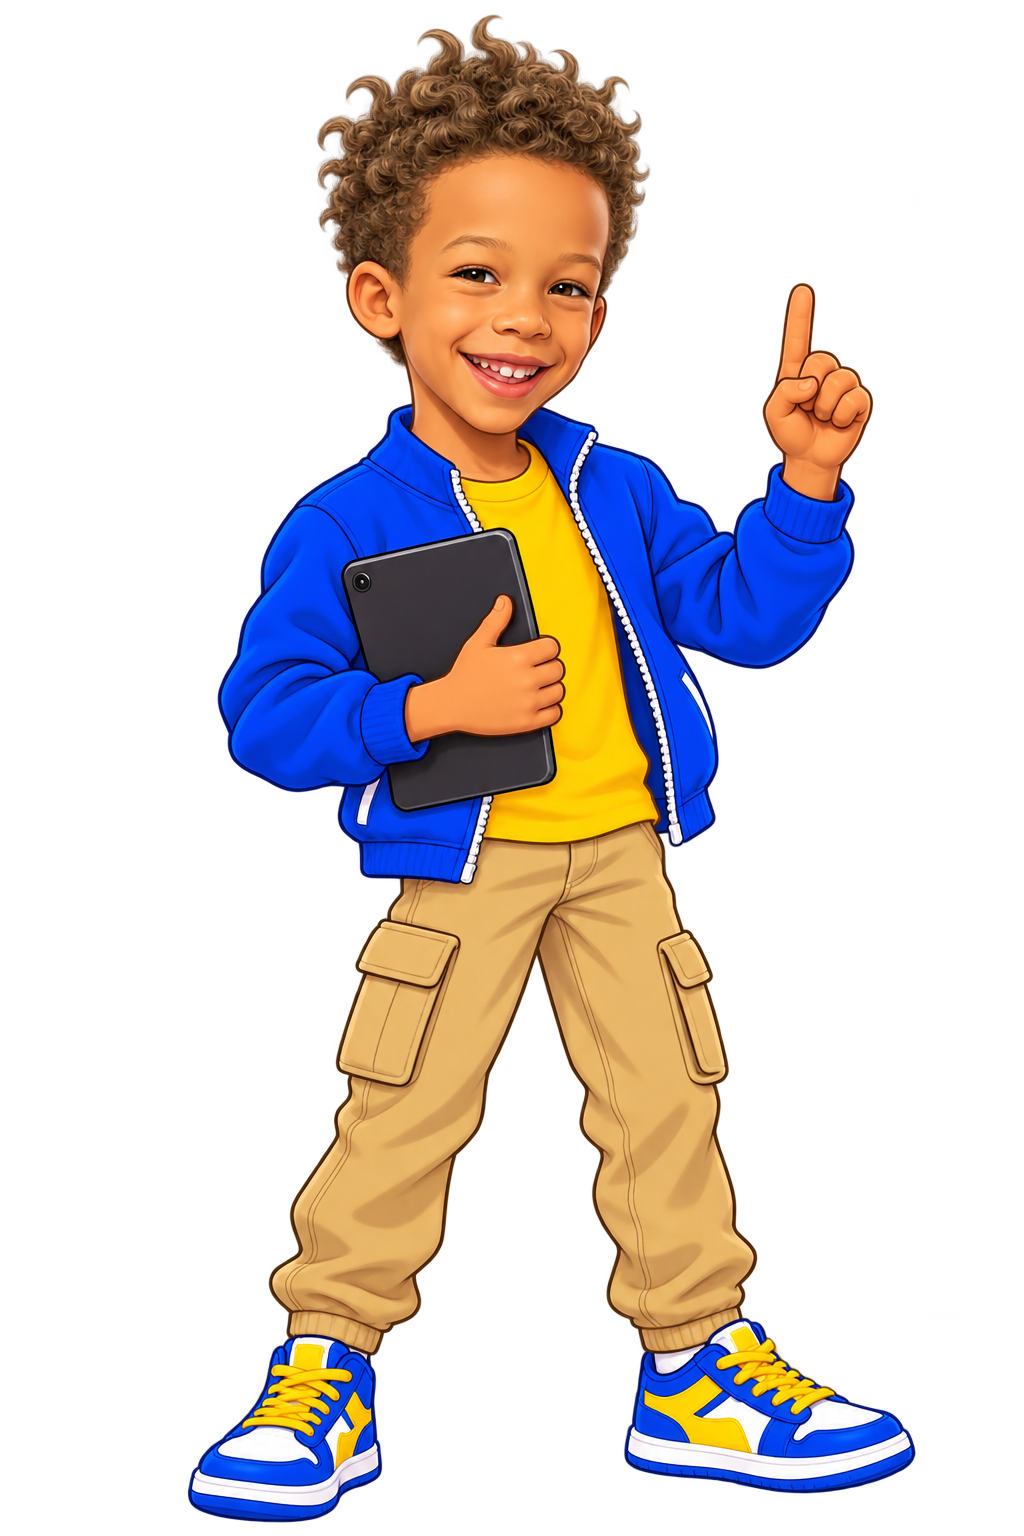
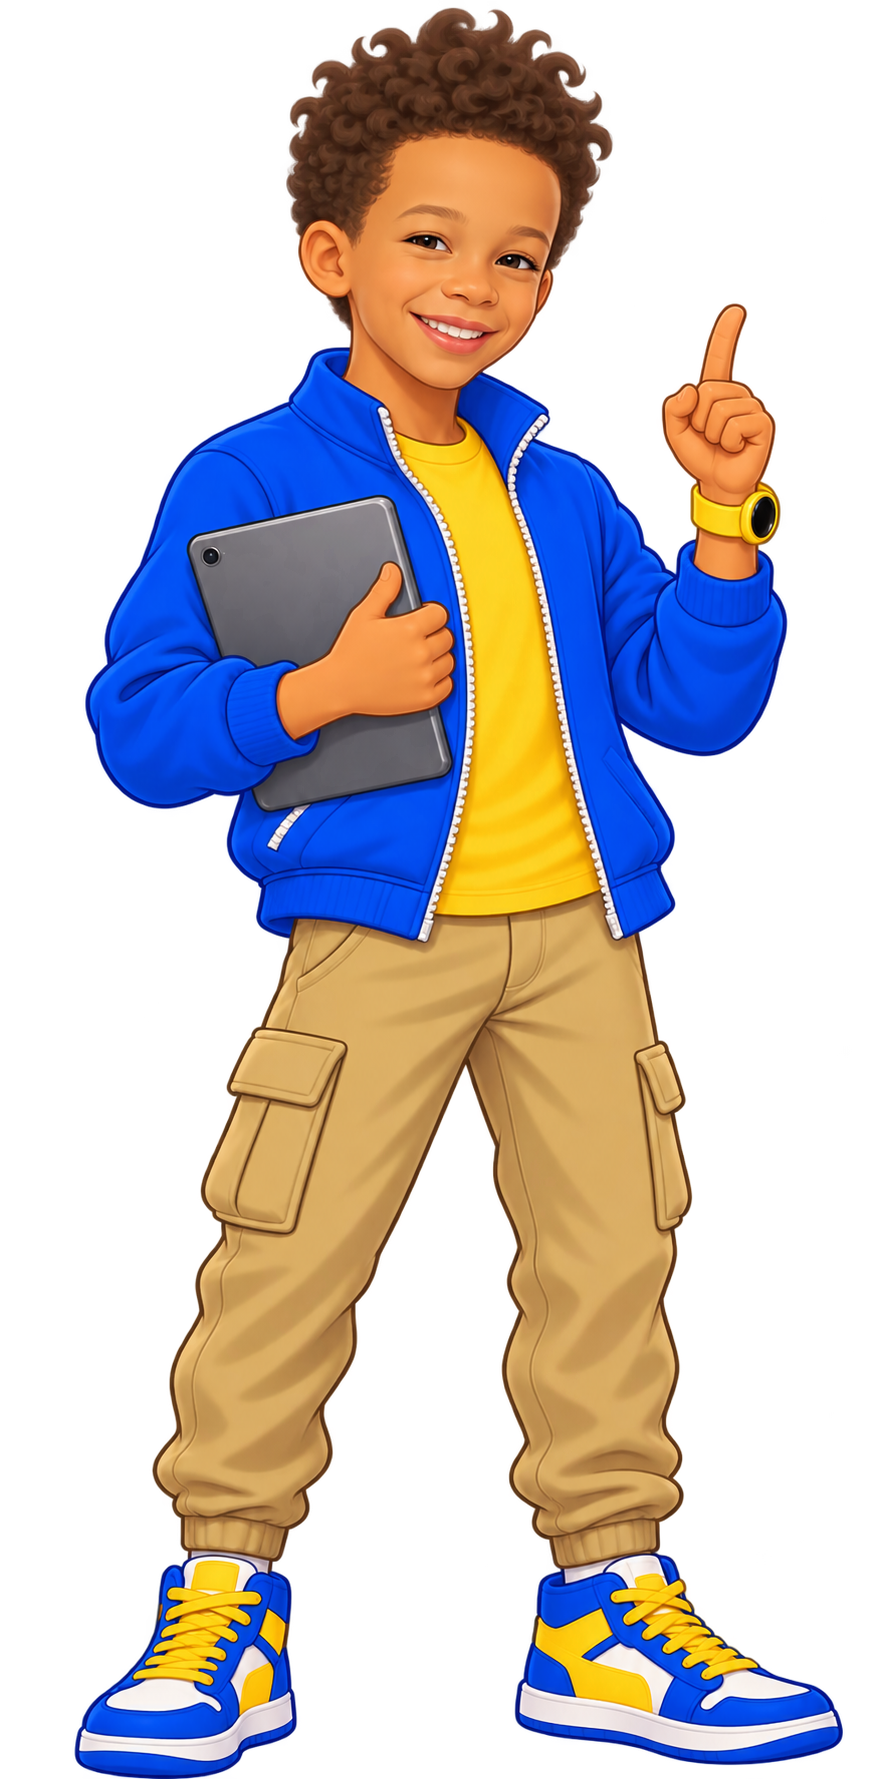
Soften Everest character artwork

diff --git a/money-ops/src/runner.js b/money-ops/src/runner.js
@@ -5,7 +5,7 @@ export class FinancialRunner{
  constructor(canvas,config,{characterId='maya',ownedItems=[],onUpdate=()=>{},onComplete=()=>{}}={}){
   this.canvas=canvas;this.ctx=canvas.getContext('2d');this.config=config;this.characterId=characterId;this.ownedItems=new Set(ownedItems);this.onUpdate=onUpdate;this.onComplete=onComplete;this.reduced=matchMedia('(prefers-reduced-motion: reduce)').matches;
   this.width=960;this.height=360;this.ground=292;this.entities=[];this.particles=[];this.popups=[];this.keys=new Set();this.running=false;this.paused=false;this.completed=false;this.last=0;this.spawnIn=1.55;this.rewardIn=.45;this.powerIn=11;this.boxIn=5;this.speed=155*config.difficulty;this.distance=0;this.lives=config.maxLives;this.coins=0;this.collected=0;this.bonusMoney=0;this.xp=0;this.score=0;this.avoided=0;this.combo=0;this.powerUpsUsed=0;this.invulnerable=0;this.companionShield=this.ownedItems.has('companion');this.activePower=null;this.state='idle';this.stateTime=0;this.vocabularyIndex=0;this.vocabularySeen=[];this.vocabEvent=null;this.vocabSerial=0;this.player={x:112,y:this.ground-124,w:82,h:124,vy:0,grounded:true,duck:false};
-  this.startedAt=0;this.endAt=0;this.lastHud=0;this.pendingStart=null;this.imageReady=false;this.imageFailed=false;this.image=new Image();this.image.onload=()=>{this.imageReady=true;if(this.pendingStart!==null){const pending=this.pendingStart;this.pendingStart=null;this.start(pending);}};this.image.onerror=()=>{this.imageFailed=true;if(this.pendingStart!==null){const pending=this.pendingStart;this.pendingStart=null;this.start(pending);}};this.image.src=new URL(`../assets/runner/${characterId}-right.png?v=43.2`,import.meta.url).href;this.imageReady=Boolean(this.image.complete&&this.image.naturalWidth);this.boundFrame=time=>this.frame(time);this.boundKeyDown=event=>this.keyDown(event);this.boundKeyUp=event=>this.keyUp(event);this.boundBlur=()=>this.setPaused(true);this.pointerStart=null;
+  this.startedAt=0;this.endAt=0;this.lastHud=0;this.pendingStart=null;this.imageReady=false;this.imageFailed=false;this.image=new Image();this.image.onload=()=>{this.imageReady=true;if(this.pendingStart!==null){const pending=this.pendingStart;this.pendingStart=null;this.start(pending);}};this.image.onerror=()=>{this.imageFailed=true;if(this.pendingStart!==null){const pending=this.pendingStart;this.pendingStart=null;this.start(pending);}};this.image.src=new URL(`../assets/runner/${characterId}-right.png?v=43.3`,import.meta.url).href;this.imageReady=Boolean(this.image.complete&&this.image.naturalWidth);this.boundFrame=time=>this.frame(time);this.boundKeyDown=event=>this.keyDown(event);this.boundKeyUp=event=>this.keyUp(event);this.boundBlur=()=>this.setPaused(true);this.pointerStart=null;
   const ratio=Math.min(2,window.devicePixelRatio||1);canvas.width=this.width*ratio;canvas.height=this.height*ratio;this.ctx.setTransform(ratio,0,0,ratio,0,0);canvas.style.aspectRatio=`${this.width}/${this.height}`;
   canvas.addEventListener('pointerdown',event=>{this.pointerStart={x:event.clientX,y:event.clientY,time:Date.now()};});
   canvas.addEventListener('pointerup',event=>{const start=this.pointerStart;if(!start)return;const dy=event.clientY-start.y;if(dy>38)this.duck(.65);else this.jump();this.pointerStart=null;});

diff --git a/src/runner.js b/src/runner.js
@@ -5,7 +5,7 @@ export class FinancialRunner{
  constructor(canvas,config,{characterId='maya',ownedItems=[],onUpdate=()=>{},onComplete=()=>{}}={}){
   this.canvas=canvas;this.ctx=canvas.getContext('2d');this.config=config;this.characterId=characterId;this.ownedItems=new Set(ownedItems);this.onUpdate=onUpdate;this.onComplete=onComplete;this.reduced=matchMedia('(prefers-reduced-motion: reduce)').matches;
   this.width=960;this.height=360;this.ground=292;this.entities=[];this.particles=[];this.popups=[];this.keys=new Set();this.running=false;this.paused=false;this.completed=false;this.last=0;this.spawnIn=1.55;this.rewardIn=.45;this.powerIn=11;this.boxIn=5;this.speed=155*config.difficulty;this.distance=0;this.lives=config.maxLives;this.coins=0;this.collected=0;this.bonusMoney=0;this.xp=0;this.score=0;this.avoided=0;this.combo=0;this.powerUpsUsed=0;this.invulnerable=0;this.companionShield=this.ownedItems.has('companion');this.activePower=null;this.state='idle';this.stateTime=0;this.vocabularyIndex=0;this.vocabularySeen=[];this.vocabEvent=null;this.vocabSerial=0;this.player={x:112,y:this.ground-124,w:82,h:124,vy:0,grounded:true,duck:false};
-  this.startedAt=0;this.endAt=0;this.lastHud=0;this.pendingStart=null;this.imageReady=false;this.imageFailed=false;this.image=new Image();this.image.onload=()=>{this.imageReady=true;if(this.pendingStart!==null){const pending=this.pendingStart;this.pendingStart=null;this.start(pending);}};this.image.onerror=()=>{this.imageFailed=true;if(this.pendingStart!==null){const pending=this.pendingStart;this.pendingStart=null;this.start(pending);}};this.image.src=new URL(`../assets/runner/${characterId}-right.png?v=43.2`,import.meta.url).href;this.imageReady=Boolean(this.image.complete&&this.image.naturalWidth);this.boundFrame=time=>this.frame(time);this.boundKeyDown=event=>this.keyDown(event);this.boundKeyUp=event=>this.keyUp(event);this.boundBlur=()=>this.setPaused(true);this.pointerStart=null;
+  this.startedAt=0;this.endAt=0;this.lastHud=0;this.pendingStart=null;this.imageReady=false;this.imageFailed=false;this.image=new Image();this.image.onload=()=>{this.imageReady=true;if(this.pendingStart!==null){const pending=this.pendingStart;this.pendingStart=null;this.start(pending);}};this.image.onerror=()=>{this.imageFailed=true;if(this.pendingStart!==null){const pending=this.pendingStart;this.pendingStart=null;this.start(pending);}};this.image.src=new URL(`../assets/runner/${characterId}-right.png?v=43.3`,import.meta.url).href;this.imageReady=Boolean(this.image.complete&&this.image.naturalWidth);this.boundFrame=time=>this.frame(time);this.boundKeyDown=event=>this.keyDown(event);this.boundKeyUp=event=>this.keyUp(event);this.boundBlur=()=>this.setPaused(true);this.pointerStart=null;
   const ratio=Math.min(2,window.devicePixelRatio||1);canvas.width=this.width*ratio;canvas.height=this.height*ratio;this.ctx.setTransform(ratio,0,0,ratio,0,0);canvas.style.aspectRatio=`${this.width}/${this.height}`;
   canvas.addEventListener('pointerdown',event=>{this.pointerStart={x:event.clientX,y:event.clientY,time:Date.now()};});
   canvas.addEventListener('pointerup',event=>{const start=this.pointerStart;if(!start)return;const dy=event.clientY-start.y;if(dy>38)this.duck(.65);else this.jump();this.pointerStart=null;});

diff --git a/money-ops/src/app.js b/money-ops/src/app.js
@@ -15,7 +15,7 @@ const money=n=>new Intl.NumberFormat('en-US',{style:'currency',currency:'USD',ma
 const escape=s=>String(s).replace(/[&<>"']/g,c=>({'&':'&amp;','<':'&lt;','>':'&gt;','"':'&quot;',"'":'&#39;'}[c]));
 const button=(text,action,cls='',extra='')=>`<button class="${cls}" data-action="${action}" ${extra}>${text}</button>`;
 function progress(){const next=nextRank(p.xp);const current=ranks.filter(r=>p.xp>=r[1]).at(-1);const pct=next?Math.min(100,(p.xp-current[1])/(next[1]-current[1])*100):100;return `<div class="xp-row"><span>${p.xp} XP</span><span>${next?`${next[1]-p.xp} TO ${next[0].toUpperCase()}`:'TOP RANK'}</span></div><div class="bar" role="progressbar" aria-label="Rank progress" aria-valuenow="${Math.round(pct)}" aria-valuemin="0" aria-valuemax="100"><i style="width:${pct}%"></i></div>`;}
-function header(){const arcade=p.mode==='arcade';return `<header><a class="brand" href="./" aria-label="Money Ops home"><span class="brand-mark">M<span>↗</span></span><span><small>FINANCIAL FREEDOM</small><b>MONEY OPS<span class="version"> / 43.2</span></b></span></a><div class="header-right"><span class="system ${arcade?'arcade-unsaved':''}"><i></i> ${arcade?'ARCADE MODE · NOT SAVED':'CAREER SAVED'}</span>${button(p.muted?'SOUND OFF':'SOUND ON','mute','utility',`aria-pressed="${!p.muted}" aria-label="${p.muted?'Enable':'Mute'} sound"`)}</div></header>`;}
+function header(){const arcade=p.mode==='arcade';return `<header><a class="brand" href="./" aria-label="Money Ops home"><span class="brand-mark">M<span>↗</span></span><span><small>FINANCIAL FREEDOM</small><b>MONEY OPS<span class="version"> / 43.3</span></b></span></a><div class="header-right"><span class="system ${arcade?'arcade-unsaved':''}"><i></i> ${arcade?'ARCADE MODE · NOT SAVED':'CAREER SAVED'}</span>${button(p.muted?'SOUND OFF':'SOUND ON','mute','utility',`aria-pressed="${!p.muted}" aria-label="${p.muted?'Enable':'Mute'} sound"`)}</div></header>`;}
 function playerPortrait(className='',id=p.avatar){return characters[id]?portrait(id,className):`<span class="avatar">${escape(id)}</span>`;}
 function runnerCharacterId(session=p?.runnerSession){if(p?.mode==='arcade')return p.avatar;const lesson=Math.max(1,Number(session?.lessonId)||1),offset=session?.phase==='post'?1:0;return castIds[(lesson-1+offset)%castIds.length];}
 const bonusItems=[{id:'boots',name:'BOOST BOOTS',price:5,icon:'⇧',detail:'Jump higher.'},{id:'magnet',name:'COIN MAGNET',price:10,icon:'◎',detail:'Pull coins closer.'},{id:'companion',name:'PENNY THE MONEY DRAGON',price:15,icon:'🐲',detail:'Your original Money Ops sidekick blocks one hit.'}];

diff --git a/src/app.js b/src/app.js
@@ -15,7 +15,7 @@ const money=n=>new Intl.NumberFormat('en-US',{style:'currency',currency:'USD',ma
 const escape=s=>String(s).replace(/[&<>"']/g,c=>({'&':'&amp;','<':'&lt;','>':'&gt;','"':'&quot;',"'":'&#39;'}[c]));
 const button=(text,action,cls='',extra='')=>`<button class="${cls}" data-action="${action}" ${extra}>${text}</button>`;
 function progress(){const next=nextRank(p.xp);const current=ranks.filter(r=>p.xp>=r[1]).at(-1);const pct=next?Math.min(100,(p.xp-current[1])/(next[1]-current[1])*100):100;return `<div class="xp-row"><span>${p.xp} XP</span><span>${next?`${next[1]-p.xp} TO ${next[0].toUpperCase()}`:'TOP RANK'}</span></div><div class="bar" role="progressbar" aria-label="Rank progress" aria-valuenow="${Math.round(pct)}" aria-valuemin="0" aria-valuemax="100"><i style="width:${pct}%"></i></div>`;}
-function header(){const arcade=p.mode==='arcade';return `<header><a class="brand" href="./" aria-label="Money Ops home"><span class="brand-mark">M<span>↗</span></span><span><small>FINANCIAL FREEDOM</small><b>MONEY OPS<span class="version"> / 43.2</span></b></span></a><div class="header-right"><span class="system ${arcade?'arcade-unsaved':''}"><i></i> ${arcade?'ARCADE MODE · NOT SAVED':'CAREER SAVED'}</span>${button(p.muted?'SOUND OFF':'SOUND ON','mute','utility',`aria-pressed="${!p.muted}" aria-label="${p.muted?'Enable':'Mute'} sound"`)}</div></header>`;}
+function header(){const arcade=p.mode==='arcade';return `<header><a class="brand" href="./" aria-label="Money Ops home"><span class="brand-mark">M<span>↗</span></span><span><small>FINANCIAL FREEDOM</small><b>MONEY OPS<span class="version"> / 43.3</span></b></span></a><div class="header-right"><span class="system ${arcade?'arcade-unsaved':''}"><i></i> ${arcade?'ARCADE MODE · NOT SAVED':'CAREER SAVED'}</span>${button(p.muted?'SOUND OFF':'SOUND ON','mute','utility',`aria-pressed="${!p.muted}" aria-label="${p.muted?'Enable':'Mute'} sound"`)}</div></header>`;}
 function playerPortrait(className='',id=p.avatar){return characters[id]?portrait(id,className):`<span class="avatar">${escape(id)}</span>`;}
 function runnerCharacterId(session=p?.runnerSession){if(p?.mode==='arcade')return p.avatar;const lesson=Math.max(1,Number(session?.lessonId)||1),offset=session?.phase==='post'?1:0;return castIds[(lesson-1+offset)%castIds.length];}
 const bonusItems=[{id:'boots',name:'BOOST BOOTS',price:5,icon:'⇧',detail:'Jump higher.'},{id:'magnet',name:'COIN MAGNET',price:10,icon:'◎',detail:'Pull coins closer.'},{id:'companion',name:'PENNY THE MONEY DRAGON',price:15,icon:'🐲',detail:'Your original Money Ops sidekick blocks one hit.'}];

diff --git a/index.html b/index.html
@@ -1,2 +1,2 @@
 <!doctype html>
-<html lang="en"><head><meta charset="utf-8"><meta name="viewport" content="width=device-width,initial-scale=1"><meta name="theme-color" content="#101816"><link rel="icon" type="image/svg+xml" href="favicon.svg"><title>Financial Freedom: Money Ops — The Financial Runner</title><link rel="stylesheet" href="style.css?v=43.2"></head><body><a class="skip" href="#main">Skip to game</a><div id="app"></div><div id="announcer" class="sr" role="status" aria-live="polite"></div><script type="module" src="src/app.js?v=43.2"></script></body></html>
+<html lang="en"><head><meta charset="utf-8"><meta name="viewport" content="width=device-width,initial-scale=1"><meta name="theme-color" content="#101816"><link rel="icon" type="image/svg+xml" href="favicon.svg"><title>Financial Freedom: Money Ops — The Financial Runner</title><link rel="stylesheet" href="style.css?v=43.3"></head><body><a class="skip" href="#main">Skip to game</a><div id="app"></div><div id="announcer" class="sr" role="status" aria-live="polite"></div><script type="module" src="src/app.js?v=43.3"></script></body></html>

diff --git a/money-ops/index.html b/money-ops/index.html
@@ -1,2 +1,2 @@
 <!doctype html>
-<html lang="en"><head><meta charset="utf-8"><meta name="viewport" content="width=device-width,initial-scale=1"><meta name="theme-color" content="#101816"><link rel="icon" type="image/svg+xml" href="favicon.svg"><title>Financial Freedom: Money Ops — The Financial Runner</title><link rel="stylesheet" href="style.css?v=43.2"></head><body><a class="skip" href="#main">Skip to game</a><div id="app"></div><div id="announcer" class="sr" role="status" aria-live="polite"></div><script type="module" src="src/app.js?v=43.2"></script></body></html>
+<html lang="en"><head><meta charset="utf-8"><meta name="viewport" content="width=device-width,initial-scale=1"><meta name="theme-color" content="#101816"><link rel="icon" type="image/svg+xml" href="favicon.svg"><title>Financial Freedom: Money Ops — The Financial Runner</title><link rel="stylesheet" href="style.css?v=43.3"></head><body><a class="skip" href="#main">Skip to game</a><div id="app"></div><div id="announcer" class="sr" role="status" aria-live="polite"></div><script type="module" src="src/app.js?v=43.3"></script></body></html>

diff --git a/money-ops/tests/runner-engine.test.js b/money-ops/tests/runner-engine.test.js
@@ -53,7 +53,7 @@ test('the run ends when the player collects the 100th reward',()=>{
 
 test('the selected character art is loaded and the kid-friendly pace accelerates gently',()=>{
  const game=harness(1,'pre').runner;
- assert.match(game.image._src,/assets\/runner\/maya-right\.png\?v=43\.2$/);
+ assert.match(game.image._src,/assets\/runner\/maya-right\.png\?v=43\.3$/);
  assert.equal(game.player.w,82);
  assert.equal(game.player.h,124);
  assert.equal(game.speed,155);
@@ -75,7 +75,7 @@ test('Money Boxes add bonus dollars and owned items change play',()=>{
  assert.equal(game.runner.companionShield,true);
  game.runner.invulnerable=0;game.runner.hitObstacle({x:200,y:240,w:50,h:50,done:false});
  assert.equal(game.runner.lives,3,'the original companion blocks one collision');
- assert.match(game.runner.image._src,/assets\/runner\/ruby-right\.png\?v=43\.2$/);
+ assert.match(game.runner.image._src,/assets\/runner\/ruby-right\.png\?v=43\.3$/);
 });
 
 test('runner events publish lesson vocabulary for the side stream',()=>{

diff --git a/tests/runner-engine.test.js b/tests/runner-engine.test.js
@@ -53,7 +53,7 @@ test('the run ends when the player collects the 100th reward',()=>{
 
 test('the selected character art is loaded and the kid-friendly pace accelerates gently',()=>{
  const game=harness(1,'pre').runner;
- assert.match(game.image._src,/assets\/runner\/maya-right\.png\?v=43\.2$/);
+ assert.match(game.image._src,/assets\/runner\/maya-right\.png\?v=43\.3$/);
  assert.equal(game.player.w,82);
  assert.equal(game.player.h,124);
  assert.equal(game.speed,155);
@@ -75,7 +75,7 @@ test('Money Boxes add bonus dollars and owned items change play',()=>{
  assert.equal(game.runner.companionShield,true);
  game.runner.invulnerable=0;game.runner.hitObstacle({x:200,y:240,w:50,h:50,done:false});
  assert.equal(game.runner.lives,3,'the original companion blocks one collision');
- assert.match(game.runner.image._src,/assets\/runner\/ruby-right\.png\?v=43\.2$/);
+ assert.match(game.runner.image._src,/assets\/runner\/ruby-right\.png\?v=43\.3$/);
 });
 
 test('runner events publish lesson vocabulary for the side stream',()=>{

diff --git a/money-ops/src/characters.js b/money-ops/src/characters.js
@@ -13,7 +13,7 @@ export const character=id=>characters[id]||characters.maya;
 
 export function portrait(id,className=''){
  const c=character(id);
- return `<img class="character-portrait ${className}" src="assets/cast/${c.image}?v=43.2" alt="${c.name}, ${c.role}">`;
+ return `<img class="character-portrait ${className}" src="assets/cast/${c.image}?v=43.3" alt="${c.name}, ${c.role}">`;
 }
 
 export function castPortraits(className='',ids=castIds){

diff --git a/src/characters.js b/src/characters.js
@@ -13,7 +13,7 @@ export const character=id=>characters[id]||characters.maya;
 
 export function portrait(id,className=''){
  const c=character(id);
- return `<img class="character-portrait ${className}" src="assets/cast/${c.image}?v=43.2" alt="${c.name}, ${c.role}">`;
+ return `<img class="character-portrait ${className}" src="assets/cast/${c.image}?v=43.3" alt="${c.name}, ${c.role}">`;
 }
 
 export function castPortraits(className='',ids=castIds){
